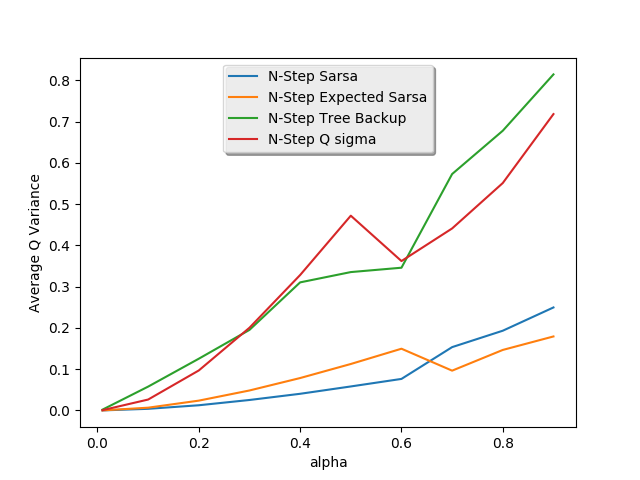
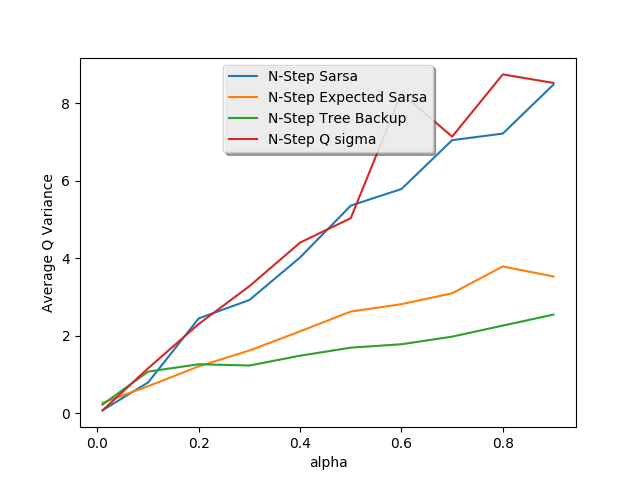
Add images for determinstic gridworld

diff --git a/varying_alpha_with_custom_sigma.py b/varying_alpha_with_custom_sigma.py
@@ -64,7 +64,7 @@ q_var_n_step_q_sigma = []
 
 epsilon = .1
 
-n=2000
+n=20000
 alphas = [x for x in np.arange(0.0, 1., .1)]
 alphas[0] = .01
 # import pdb; pdb.set_trace()
